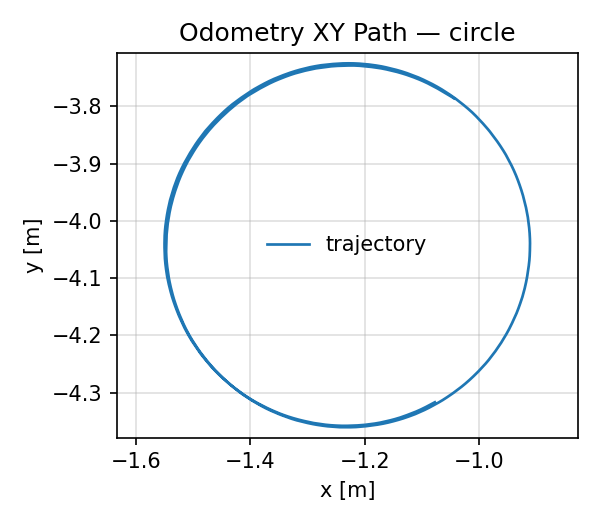
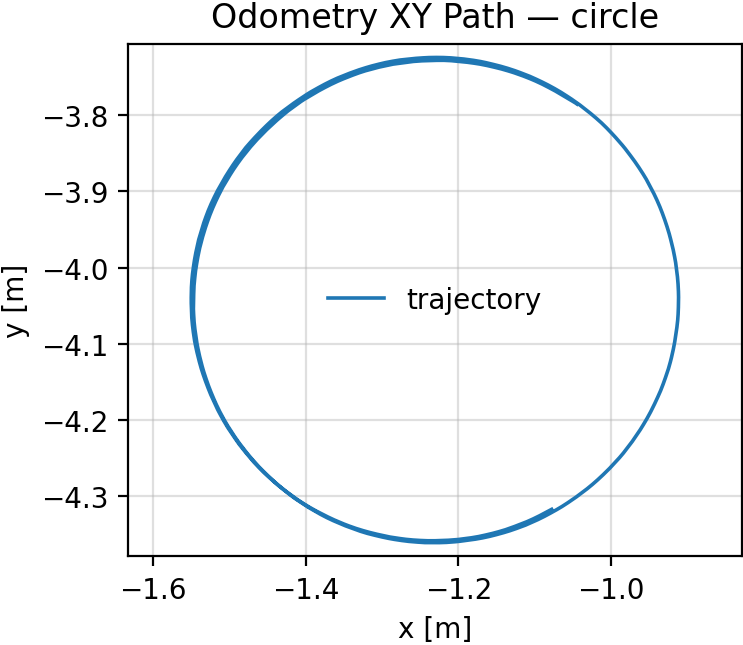
odom plots

Changed region(s): [[0.0, 0.0, 1.0, 1.0], [0.45, 0.4571, 0.51, 0.4876]]

diff --git a/filePlotter.py b/filePlotter.py
@@ -191,30 +191,26 @@ def plot_odom(filename):
     plt.grid(True, alpha=0.4)
     plt.legend(loc="best", frameon=False)
     plt.tight_layout()
-    plt.savefig(f"{base}_xy.png", dpi=150)
+    plt.savefig(f"{base}_xy.png", bbox_inches="tight", pad_inches=0.01, dpi=200)
 
     # Plot x, y, and theta over time in subplots for clarity
     # --- Figure 2: x, y, θ vs time ---
     fig, ax = plt.subplots(3, 1, figsize=(5, 4), sharex=True)
     ax[0].plot(time_s, xs, linewidth=1.2, label="x")
-    ax[0].set_ylabel("x [m]")
-    ax[0].grid(True, alpha=0.4)
-    ax[0].legend(loc="upper right", frameon=False)
+    ax[0].set_ylabel("x [m]", labelpad=1); ax[0].grid(True, alpha=0.4); ax[0].legend(loc="upper right", frameon=False)
 
     ax[1].plot(time_s, ys, linewidth=1.2, label="y")
-    ax[1].set_ylabel("y [m]")
-    ax[1].grid(True, alpha=0.4)
-    ax[1].legend(loc="upper right", frameon=False)
+    ax[1].set_ylabel("y [m]", labelpad=1); ax[1].grid(True, alpha=0.4); ax[1].legend(loc="upper right", frameon=False)
 
     ax[2].plot(time_s, th, linewidth=1.2, label=r"$\theta$")
-    ax[2].set_xlabel("time [s]")
-    ax[2].set_ylabel(r"$\theta$ [rad]")
+    ax[2].set_xlabel("time [s]", labelpad=1)
+    ax[2].set_ylabel(r"$\theta$ [rad]", labelpad=1)
     ax[2].grid(True, alpha=0.4)
     ax[2].legend(loc="upper right", frameon=False)
 
     fig.suptitle(f"Odometry Time Series — {motion}", y=0.9)
     fig.tight_layout(rect=[0, 0, 1, 0.96])
-    fig.savefig(f"{base}_timeseries.png", dpi=150)
+    fig.savefig(f"{base}_timeseries.png", bbox_inches="tight", pad_inches=0.02, dpi=200)
 
     # If you also want to show immediately:
     plt.show()
